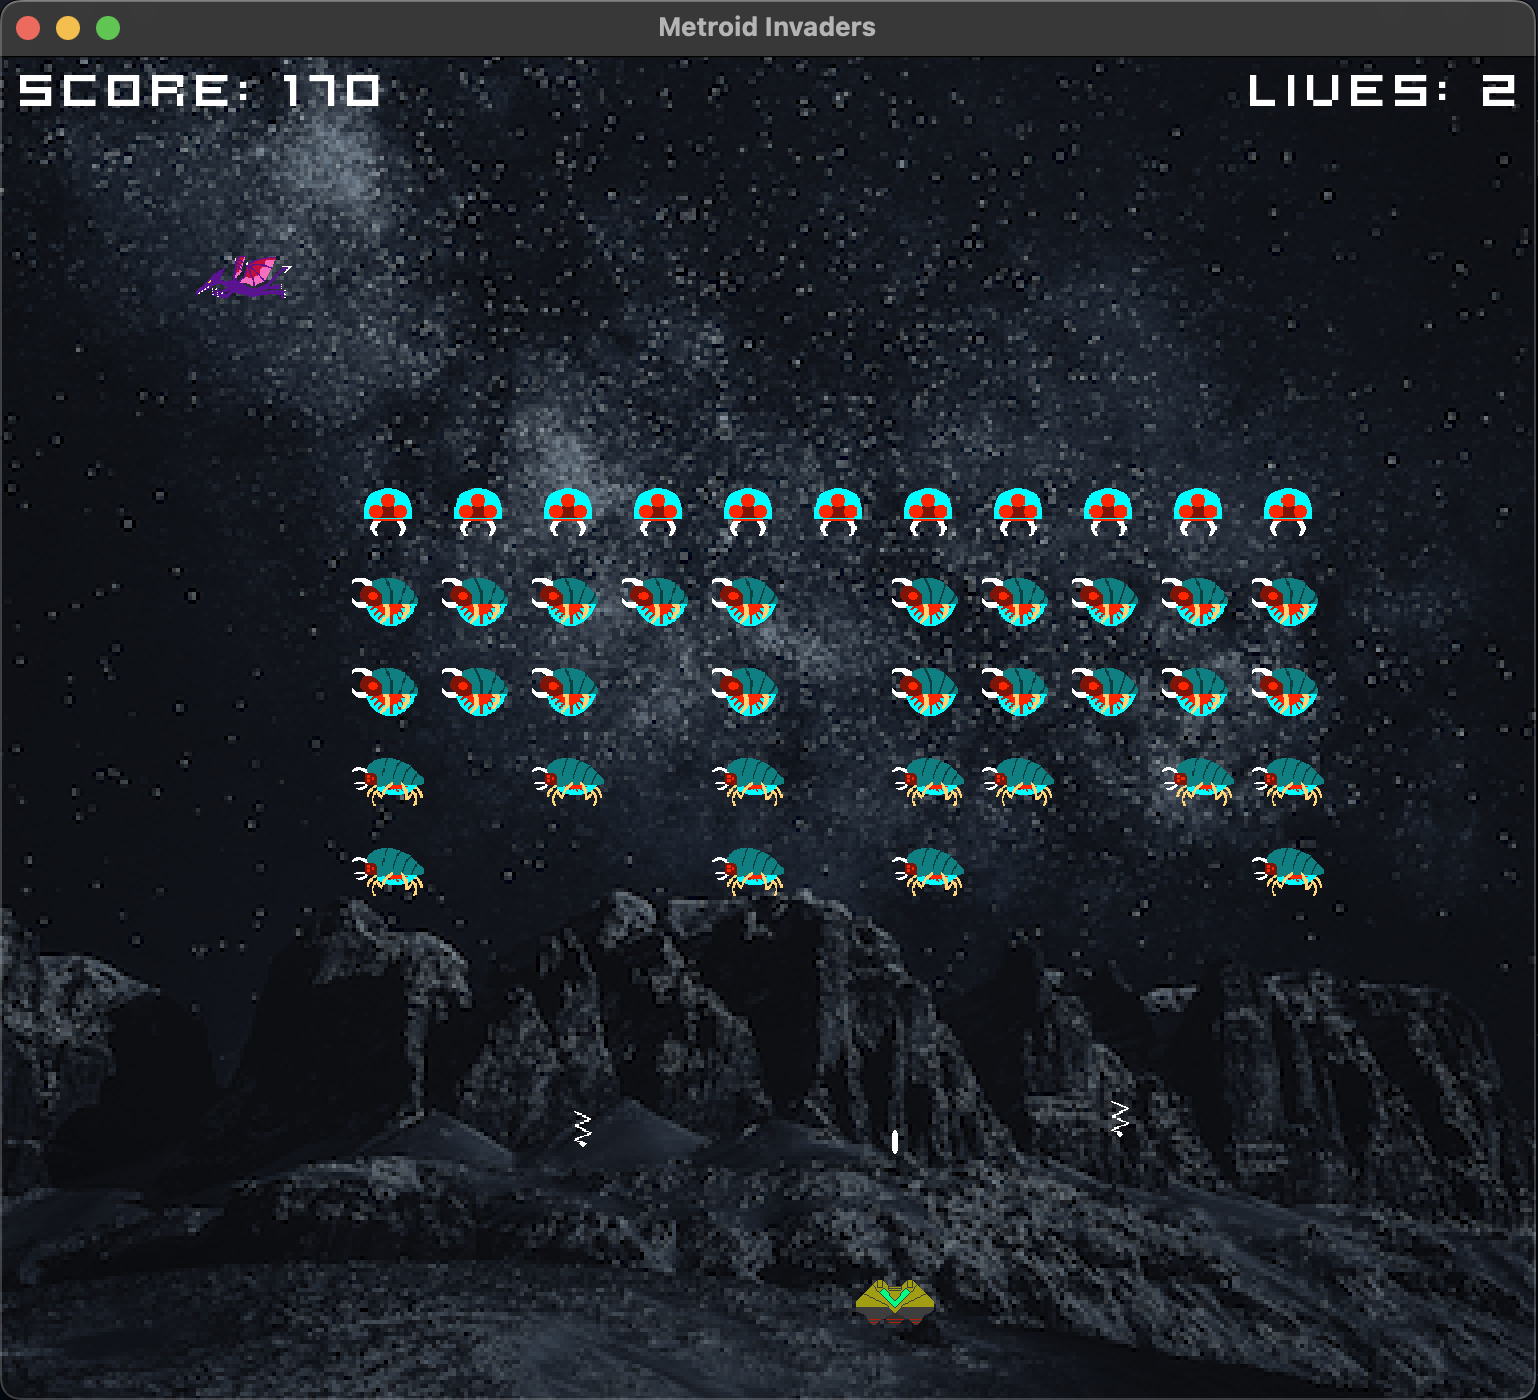
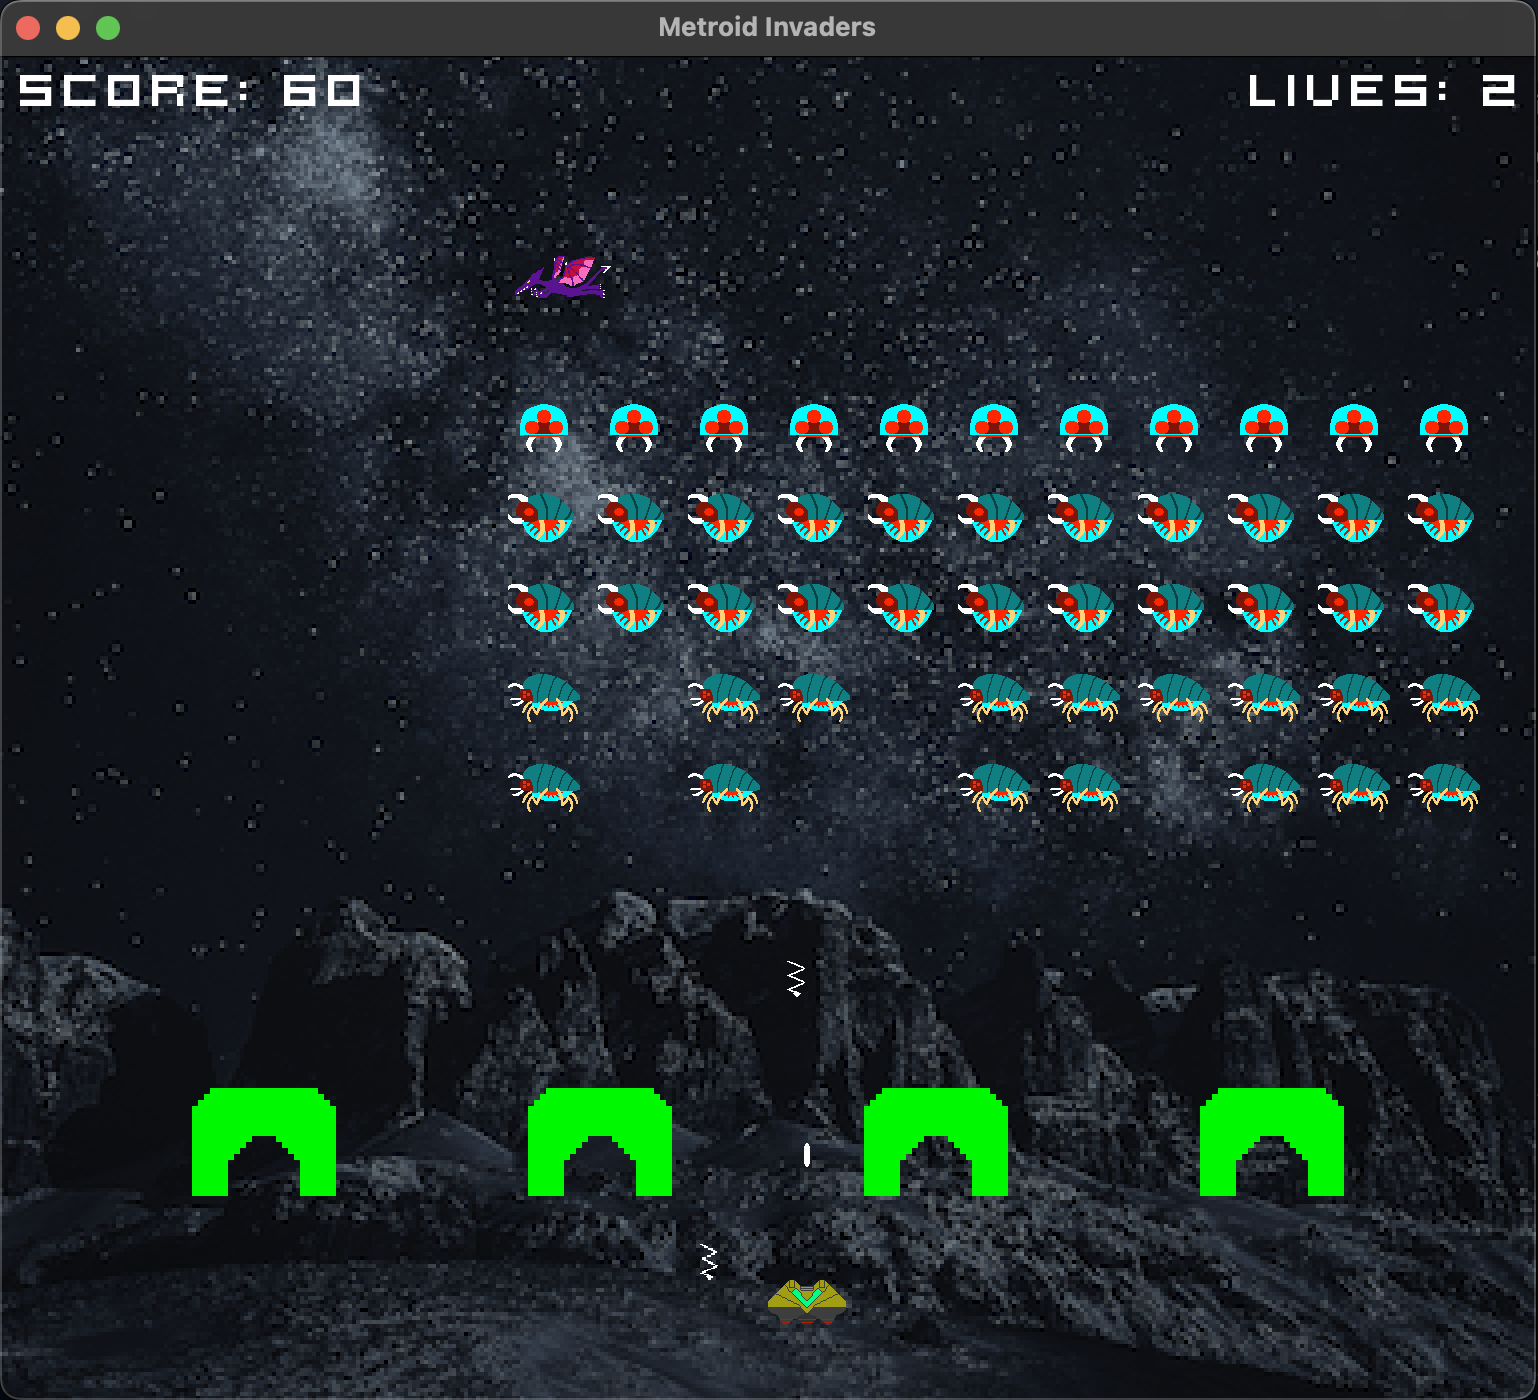
Update README
Remove Bunkers from features pending. Update the gameplay description
and also the gameplay screenshot.

diff --git a/README.md b/README.md
@@ -4,12 +4,11 @@ This solo project is an imitation of the classic 1978 Taito game, Space Invaders
 
 ## Features Pending
 
-- Bunkers protecting the Gunship at the bottom
 - **_(Under consideration)_** Submit the player score into a database with their name at game over and display the leaderboard either at game over or on a live website
 
 ## Gameplay
 
-The player controls a Gunship at the bottom of the window which can be moved horizontally using the left and right arrow keys. Pressing the spacebar will fire the Laser directly upwards from the Gunship's current position at the time the spacebar is pressed. A 5 x 11 grid of Metroids positioned above gradually moves down. The player must shoot them using the Gunship to score points and move on to the next level before they reach the bottom.
+The player controls a Gunship at the bottom of the window which can be moved horizontally using the left and right arrow keys. Pressing the spacebar will fire the Laser directly upwards from the Gunship's current position at the time the spacebar is pressed. A 5 x 11 grid of Metroids positioned above gradually moves down. The player must shoot them using the Gunship to score points and move on to the next level before they reach the bottom. The Gunship is protected by 4 Bunkers which can each take 10 laser hits (including from the Gunship Laser) before being removed from the window.
 
 ### Rules
 
@@ -33,7 +32,7 @@ The player controls a Gunship at the bottom of the window which can be moved hor
 </p>
 
 <p align="center">
-  <b>Fig.2 -</b> A screenshot of the game window with the Gunship at the bottom of the board, firing the Laser at the grid of Metroids above while dodging the Metroid lasers. Ridley can also be seen hovering above the grid of Invaders. The player's score can be seen in the top left hand corner with the number of lives left in the top right hand corner
+  <b>Fig.2 -</b> A screenshot of the game window with the Gunship at the bottom of the board, below the Bunkers, firing the Laser at the grid of Metroids above while dodging the Metroid lasers. Ridley can also be seen hovering above the grid of Invaders. The player's score can be seen in the top left hand corner with the number of lives left in the top right hand corner
 </p>
 
 <p align="center">
